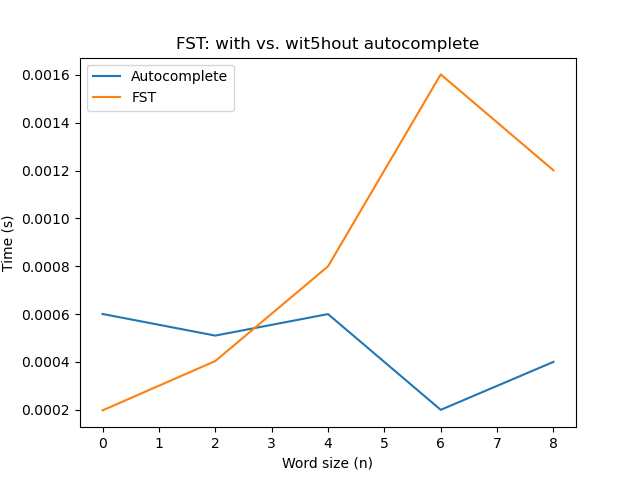
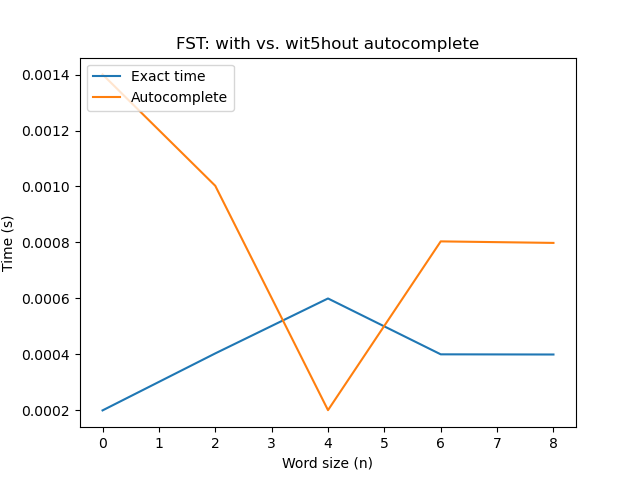
Tests adjusted

diff --git a/FST/comps.py b/FST/comps.py
@@ -88,23 +88,23 @@ def main():
         size_list[index] = 2*index
 
     for length in range(5):
-        size = len(autocomplete_time_list_avg[(length - 1)])
+        size = len(autocomplete_time_list_avg[length])
         sum = 0
         for i in range(size):
-            sum += autocomplete_time_list_avg[(length - 1)][(i - 1)]
-        autocomplete_time_list[(length - 1)] = sum / size
+            sum += autocomplete_time_list_avg[length][i]
+        autocomplete_time_list[length] = sum / size
         
-        size = len(fst_time_list_avg[(length - 1)])
+        size = len(fst_time_list_avg[length])
         sum = 0
         for i in range(size):
-            sum += fst_time_list_avg[(length - 1)][(i - 1)]
-        fst_time_list[(length - 1)] = sum / size
+            sum += fst_time_list_avg[length][i]
+        fst_time_list[length] = sum / size
         
-        size = len(hash_time_list_avg[(length - 1)])
+        size = len(hash_time_list_avg[length])
         sum = 0
         for i in range(size):
-            sum += hash_time_list_avg[(length - 1)][(i - 1)]
-        hash_time_list[(length - 1)] = sum / size
+            sum += hash_time_list_avg[length][i]
+        hash_time_list[length] = sum / size
 
 
     # plot comparable charts
@@ -136,8 +136,8 @@ def main():
     print("Hash Table -> %s seconds\n" % hash_creation_time)
 
     # show the number of edges
-    print("Number of edges:")
-    print("FST -> %s edges" % fst_edges)
+    print("Number of states:")
+    print("FST -> %s states" % fst_edges)
     print("Hash Table -> %s lines\n" % hash_edges)
 
     # show the memory cost
